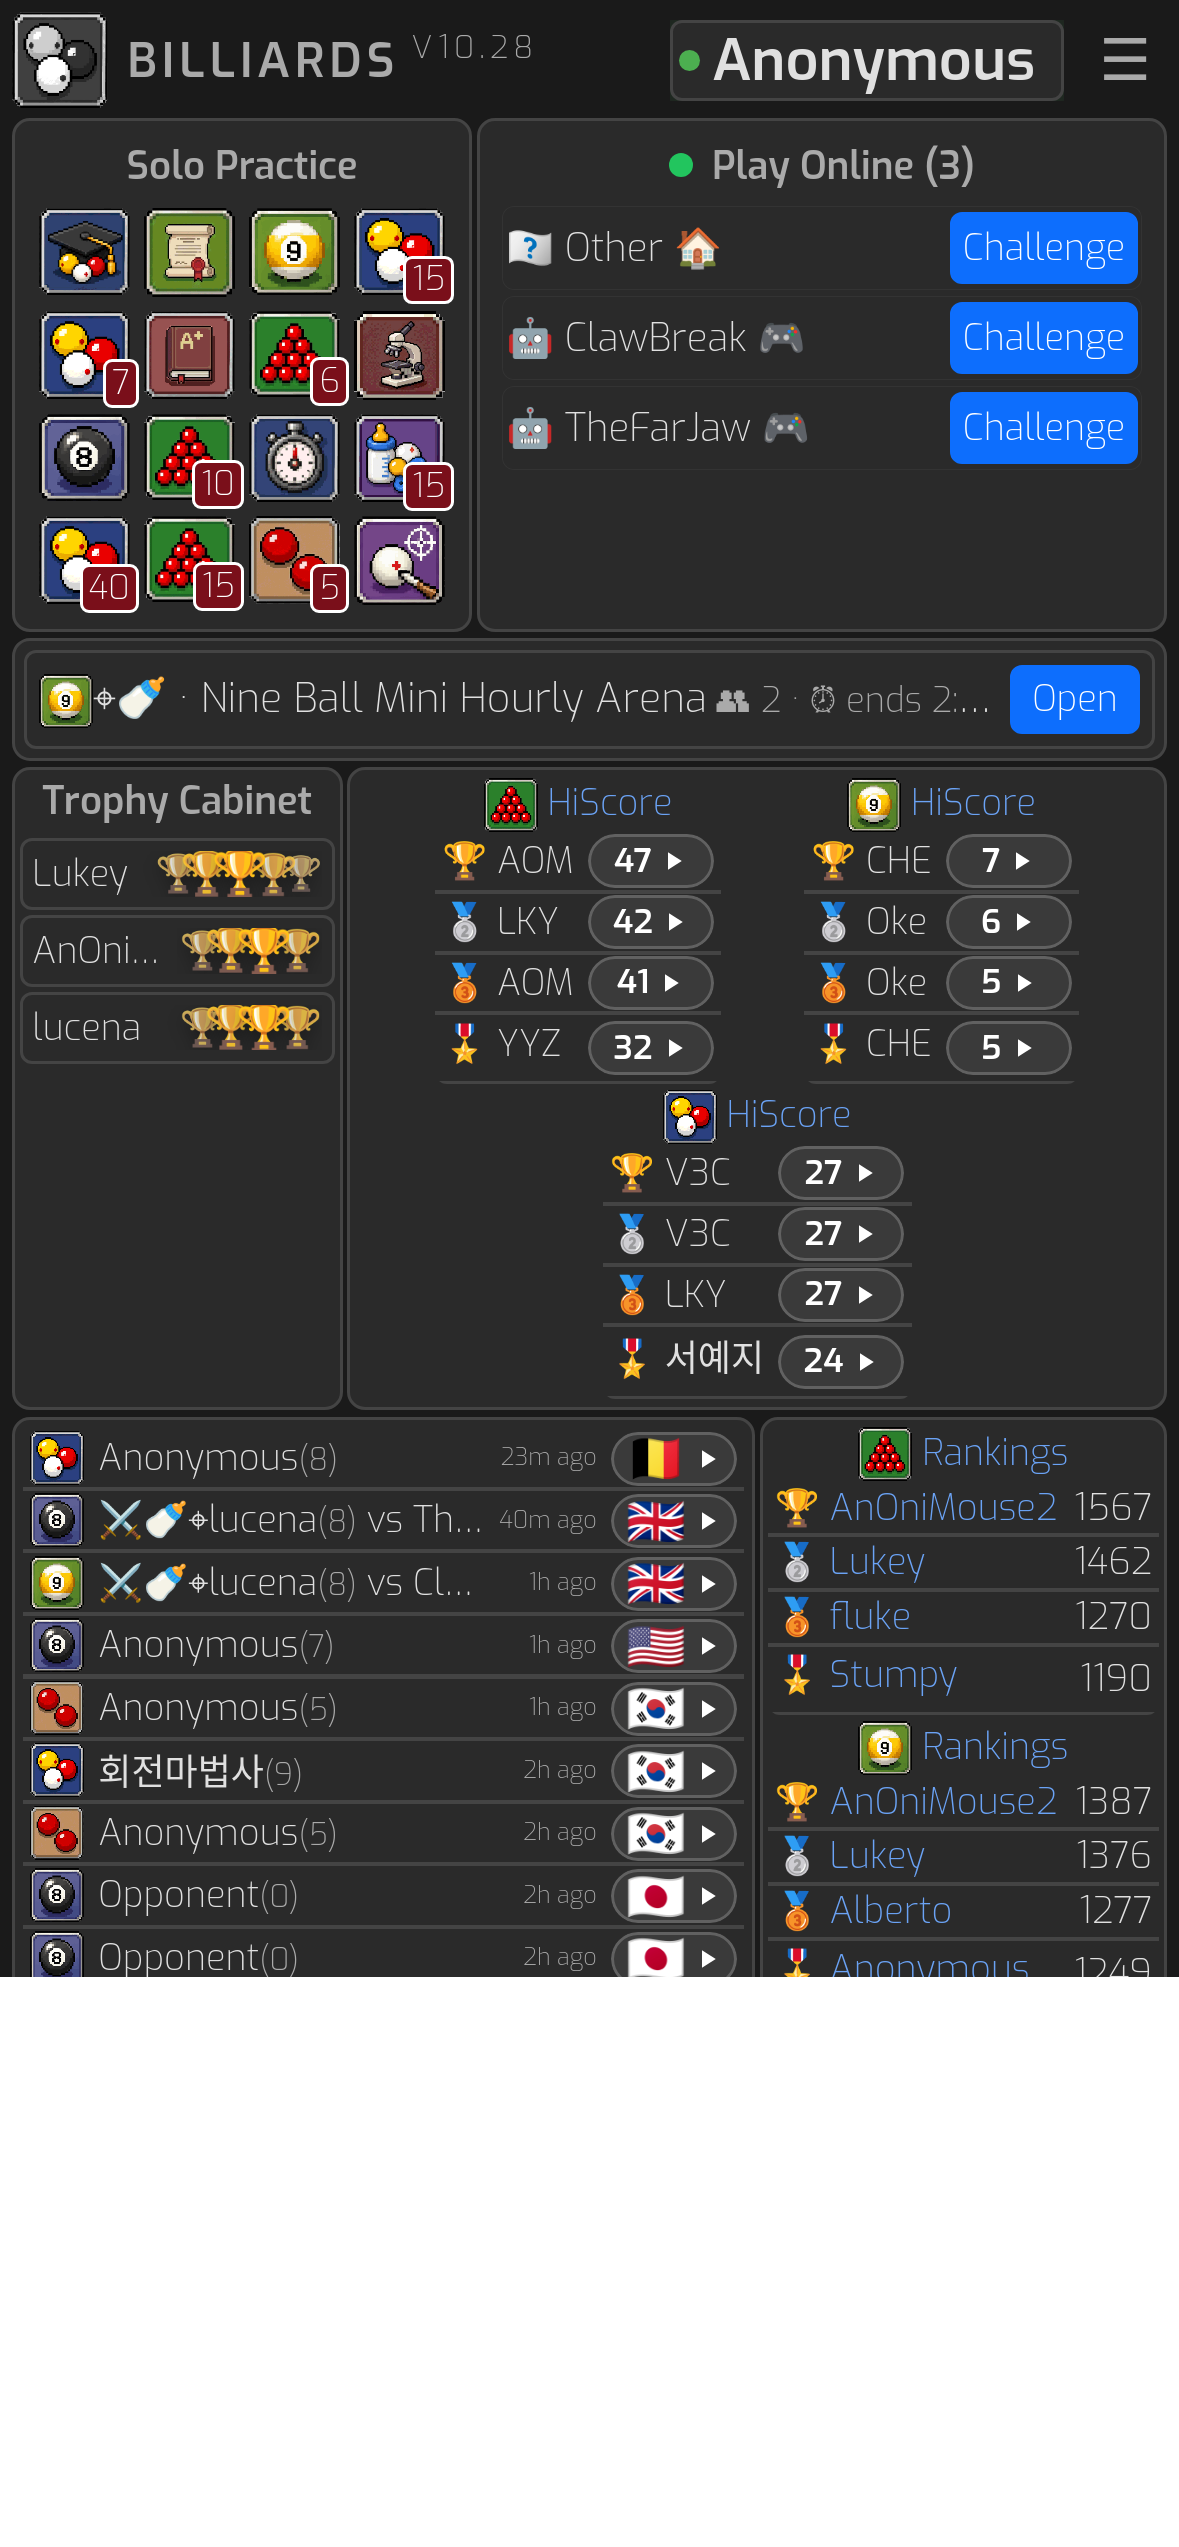
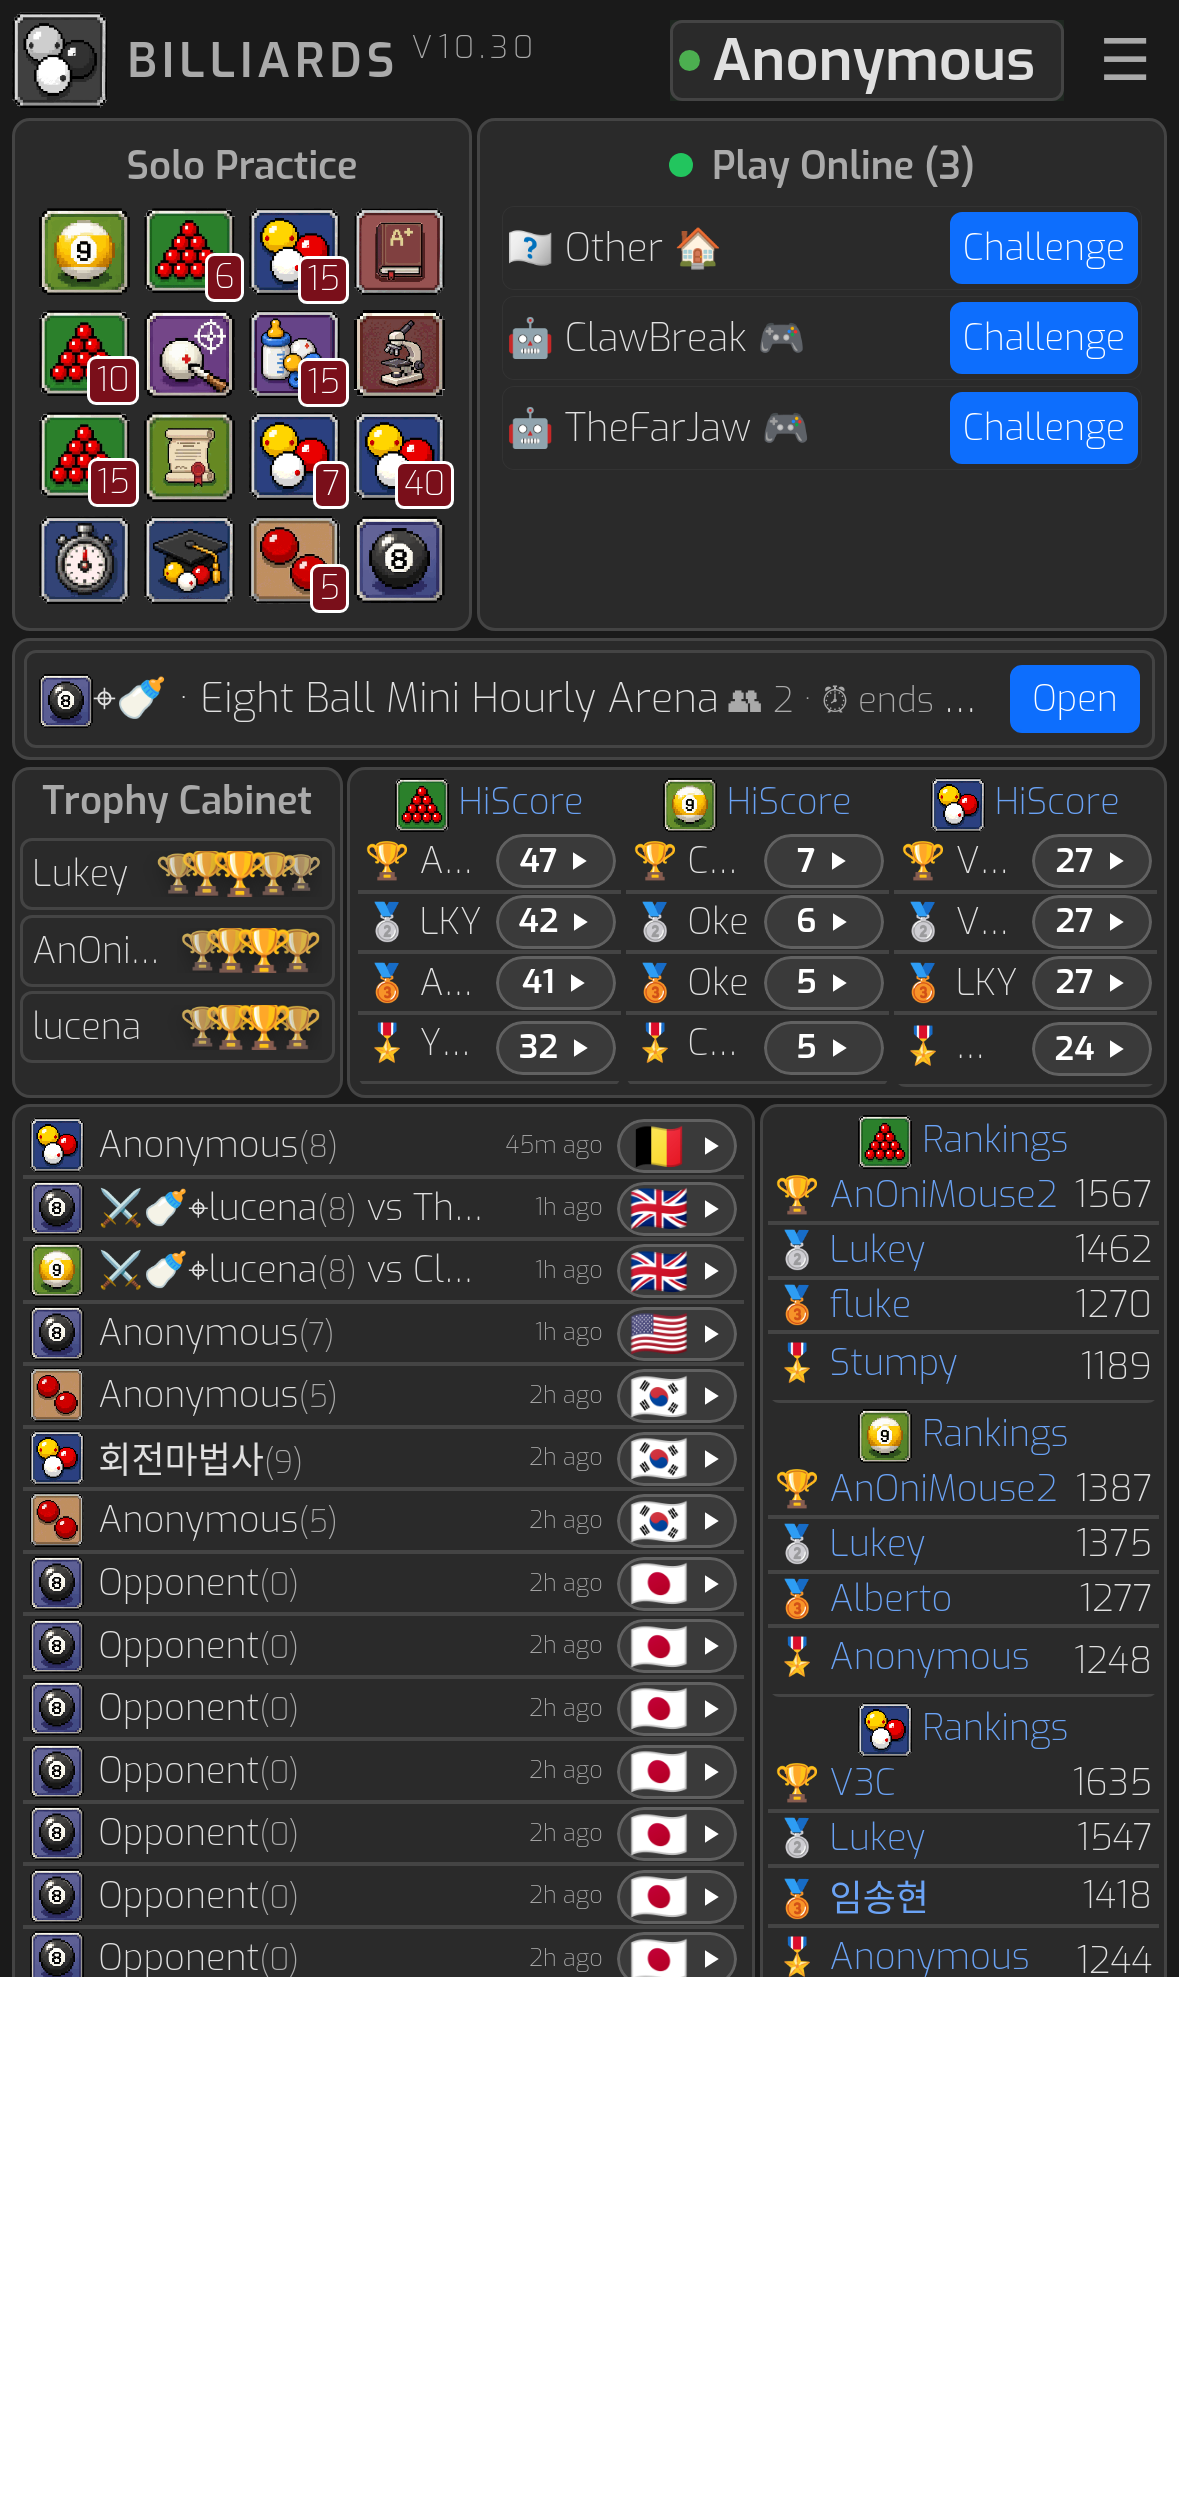
width

Changed region(s): [[0.0, 0.0, 1.0, 0.8106], [0.5802, 0.0312, 0.9771, 0.1871], [0.4275, 0.0935, 0.7023, 0.1871]]

diff --git a/src/client/styles.js b/src/client/styles.js
@@ -296,6 +296,18 @@ export const INFO_PANEL_STYLES = css`
     @media (max-width: 640px) {
         .top-row .cabinet { flex: 0 0 calc(230px * 0.5 - 10px); }
     }
+    /* The HiScore tables must always sit three-across. A wrapping flex line
+       breaks each item at its max-content width, which varies by engine (table
+       intrinsic sizing, emoji advances) and by reload (the names are live), so
+       the third table randomly folds under on Blink/WebKit. A fixed 3-column
+       grid decides the count up front instead of leaving it to measurement. */
+    .top-row .hiscores .group-body { display: grid; grid-template-columns: repeat(3, minmax(0, 1fr)); }
+    .top-row .hiscores .tbl { min-width: 0; margin: 0.0625rem 0.05rem; }
+    /* Fixed layout lets the columns shrink to the grid track instead of forcing
+       the table out to its max-content width; the name column then ellipsises. */
+    .top-row .hiscores .tbl table { width: 100%; table-layout: fixed; }
+    .top-row .hiscores td:first-child { overflow: hidden; text-overflow: ellipsis; white-space: nowrap; }
+    .top-row .hiscores td:last-child { width: 40px; }
     .bottom-row { display: flex; align-items: flex-start; gap: 0.1rem; }
     /* The bottom-row groups are the last thing in the panel; their .group
        margin-bottom left a ~2px gap that made the stretched online-panel

diff --git a/src/client/replay-button.js b/src/client/replay-button.js
@@ -30,7 +30,7 @@ class ReplayButton extends LitElement {
             border: 1px solid var(--btn-replay-border, rgba(255, 255, 255, 0.1));
             background-color: var(--btn-replay-bg, #4a90d9);
             margin: 0;
-            padding: 0 4px;
+            padding: 0 3px;
             font-size: 0.7rem;
             color: white;
             font-family: inherit;

diff --git a/src/client/utils.js b/src/client/utils.js
@@ -1,7 +1,7 @@
 
 import { html } from 'lit';
 
-export const CLIENTVERSION = 1028;
+export const CLIENTVERSION = 1030;
 export const formatVersion = (v) => `v${Math.floor(v / 100)}.${String(v % 100).padStart(2, '0')}`;
 
 
